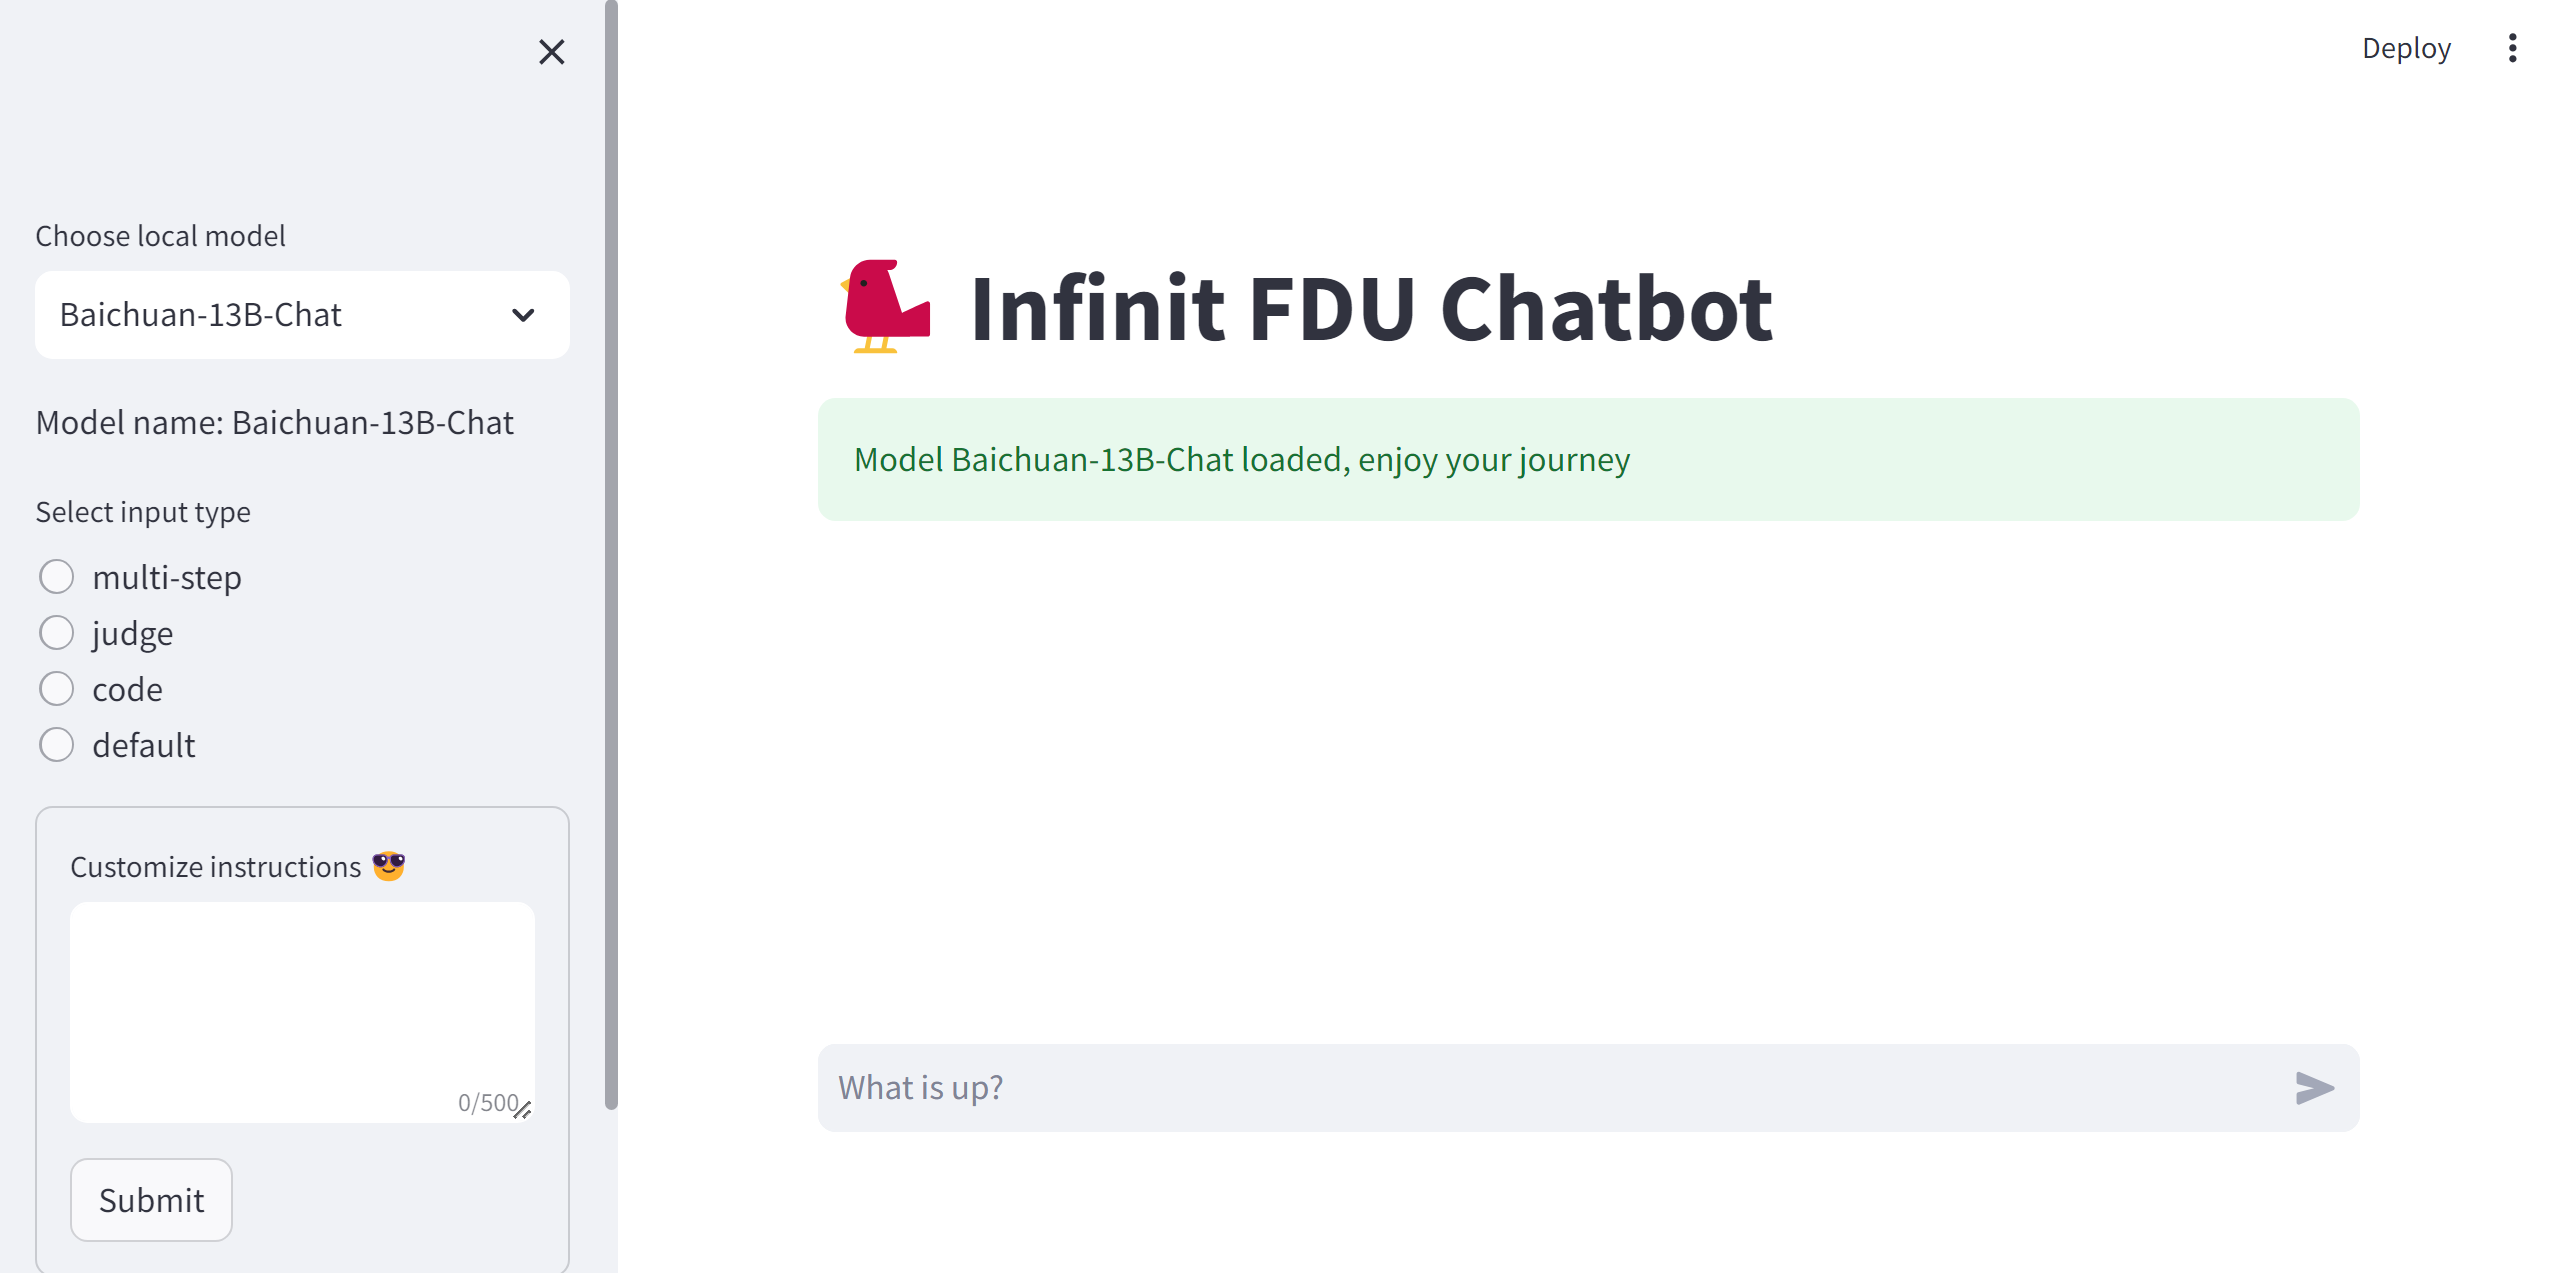
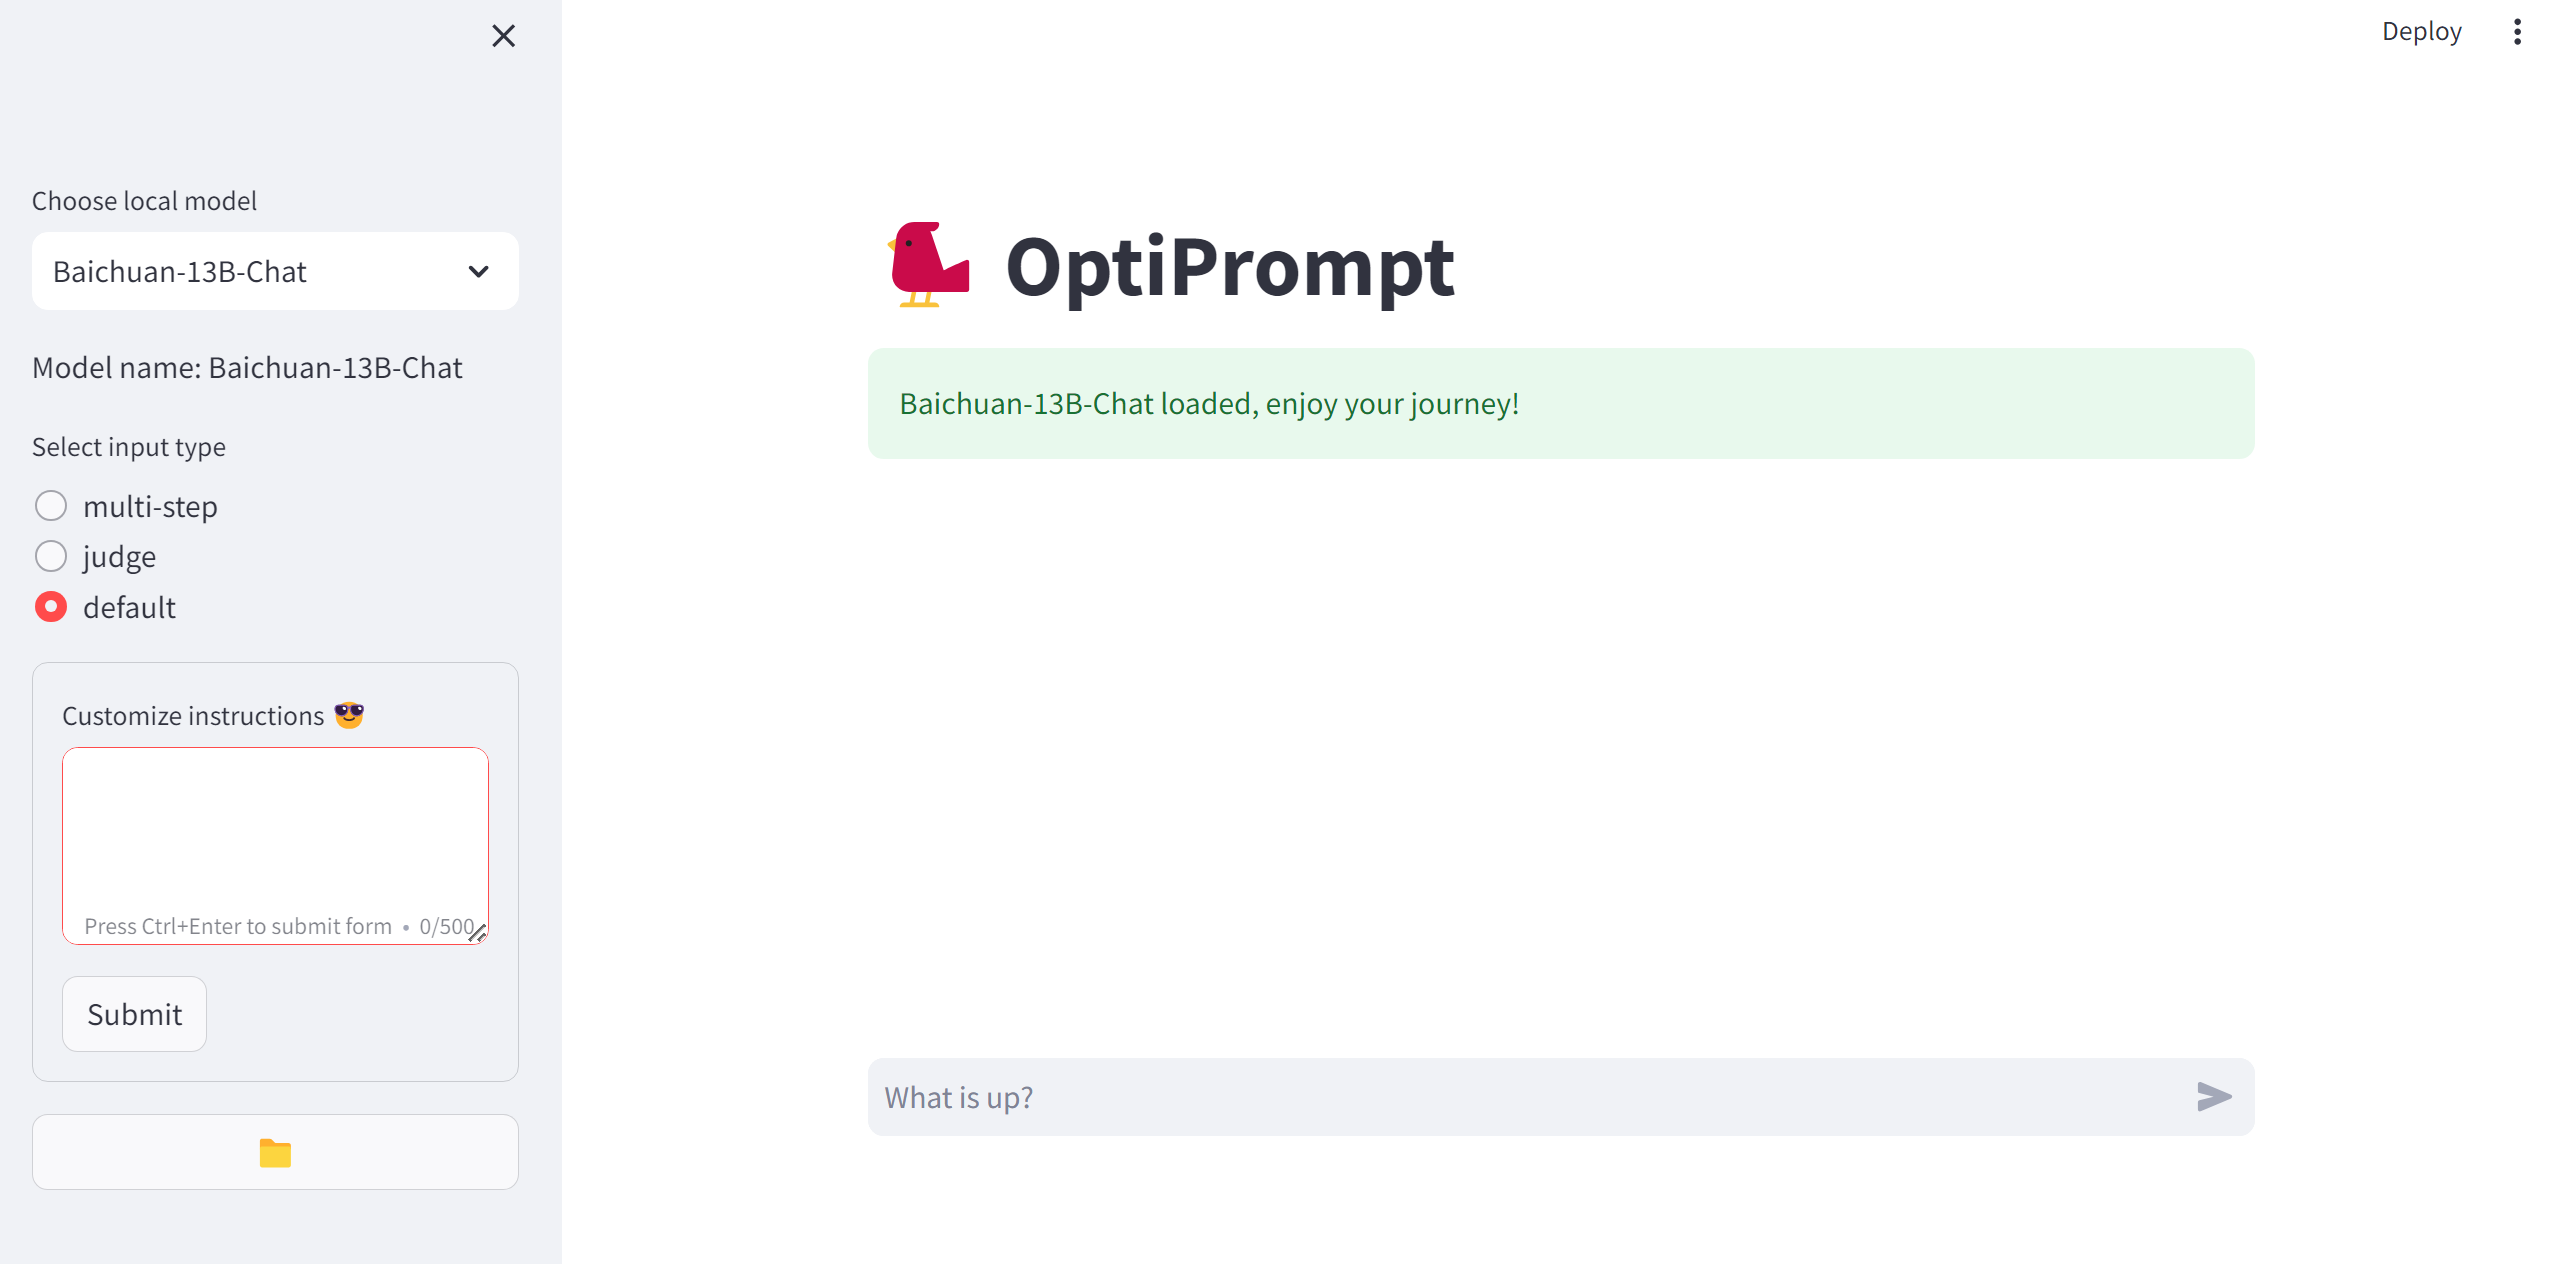
Update README.md

diff --git a/app.py b/app.py
@@ -14,7 +14,7 @@ logging.basicConfig(format='%(asctime)s %(message)s',
 
 # Configure the Streamlit page with custom settings
 st.set_page_config(
-    page_title="Infinit FDU Chatbot",
+    page_title="OptiPrompt",
     page_icon=":ringed_planet:",
     menu_items={
         'Get help': 'https://github.com/Infinite-FDU/BigDL',
@@ -34,7 +34,7 @@ if not os.path.exists(output_file_name):
         file.write("# Chat History\n")
         file.write(delimiter + "\n")
 
-st.title(":bird: Infinit FDU Chatbot")
+st.title(":bird: OptiPrompt")
 logging.info("Streamlit page configured")
 
 @st.cache_resource
@@ -67,7 +67,7 @@ with st.sidebar:
 
     # Create a radio button group for selecting input types
     user_input_type = st.radio("Select input type", [
-                               "multi-step", "judge", "code", "default"], index=3)
+                               "multi-step", "judge", "default"], index=2)
 
     file_path = "system_message.txt"
     # Check if the system message text file exists

diff --git a/README.md b/README.md
@@ -10,32 +10,16 @@
 
 
 
-<!-- PROJECT SHIELDS -->
-<!--
-*** I'm using markdown "reference style" links for readability.
-*** Reference links are enclosed in brackets [ ] instead of parentheses ( ).
-*** See the bottom of this document for the declaration of the reference variables
-*** for contributors-url, forks-url, etc. This is an optional, concise syntax you may use.
-*** https://www.markdownguide.org/basic-syntax/#reference-style-links
--->
-[![Contributors][contributors-shield]][contributors-url]
-[![Forks][forks-shield]][forks-url]
-[![Stargazers][stars-shield]][stars-url]
-[![Issues][issues-shield]][issues-url]
-[![MIT License][license-shield]][license-url]
-[![LinkedIn][linkedin-shield]][linkedin-url]
-
-
 
 <!-- PROJECT LOGO -->
 <br />
-<div align="center">
+<!-- <div align="center">
   <a href="https://github.com/Infinite-FDU/BigDL">
     <img src="images/logo.jpg" alt="Logo" width="80" height="80">
-  </a>
+  </a> -->
 
-<h3 align="center">Infitnite FDU</h3>
-
+<h1 align="center">OptiPrompt</h1>
+<h4 align="center">version 602</h4>
   <p align="center">
     A conversational AI chatbot for enhancing user queries and assisting in generating improved questions.
     <br />
@@ -86,15 +70,15 @@
 [![Product Name Screen Shot][product-screenshot]](https://example.com)
 
 
-Welcome to the **Infinit FDU Chatbot** project, your gateway to a world of intelligent conversation and assistance! 🤖✨
+Welcome to the **OptiPrompt** project, your gateway to a world of intelligent conversation and assistance! 🤖✨
 
-The **Infinit FDU Chatbot** is an innovative chatbot powered by state-of-the-art natural language processing models. Whether you're seeking answers, code optimization suggestions, or even help with refining your questions, our chatbot is here to assist you effectively. Designed for a variety of use cases, from code optimization to language model guidance, it's your go-to AI assistant.
+The **OptiPrompt** is an innovative chatbot powered by state-of-the-art natural language processing models. Whether you're seeking answers, code optimization suggestions, or even help with refining your questions, our chatbot is here to assist you effectively. Designed for a variety of use cases, from code optimization to language model guidance, it's your go-to AI assistant.
 
 Our project leverages the latest advancements in language modeling technology and provides you with a seamless conversational experience. Engage in productive discussions, refine your queries, and harness the power of AI to enhance your workflow.
 
-Get ready to embark on an exciting journey with the **Infinit FDU Chatbot**. Explore its capabilities, improve your communication, and boost your productivity. It's more than just a chatbot; it's your AI companion in the world of natural language understanding and generation.
+Get ready to embark on an exciting journey with the **OptiPrompt**. Explore its capabilities, improve your communication, and boost your productivity. It's more than just a chatbot; it's your AI companion in the world of natural language understanding and generation.
 
-Start your conversation with the **Infinit FDU Chatbot** today and elevate your interactions to the next level! 🚀🤖
+Start your conversation with the **OptiPrompt** today and elevate your interactions to the next level! 🚀🤖
 
 <p align="right">(<a href="#readme-top">back to top</a>)</p>
 
@@ -215,7 +199,7 @@ _For more examples, please refer to the [Documentation](https://python.langchain
 <!-- ROADMAP -->
 # Roadmap
 
-## Version 1.0.0 (Initial Release)
+<!-- ## Version 1.0.0 (Initial Release)
 - [x] Streamlit app setup with customizable settings and styling.
 - [x] Integration of Transformers LLM with support for model selection.
 - [x] Four distinct input types: multi-step, judge, code, and default.
@@ -258,7 +242,8 @@ See the [open issues](https://github.com/Infinite-FDU/BigDL/issues) for a full l
 
 
 
-<!-- CONTRIBUTING -->
+CONTRIBUTING -->
+
 # Contributing
 
 🎉 We welcome contributions from the community! If you'd like to get involved and help improve the Infinit FDU Chatbot project, here's how you can contribute:
